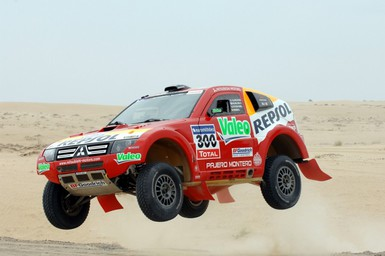
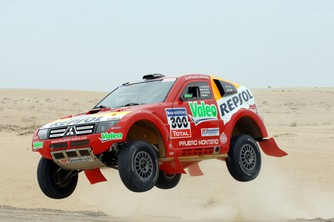
Ajustes de Imagem

diff --git a/app/models/news.rb b/app/models/news.rb
@@ -1,3 +1,4 @@
 class News < ActiveRecord::Base
-  has_attached_file :image, :styles => { :medium => "385x334>", :thumb => "158x117>" }
+  #has_attached_file :image, :styles => { :medium => "385x334>", :thumb => "158x117>" }
+  has_attached_file :image, :styles => { :medium => "334x385>", :thumb => "117x158" }
 end
